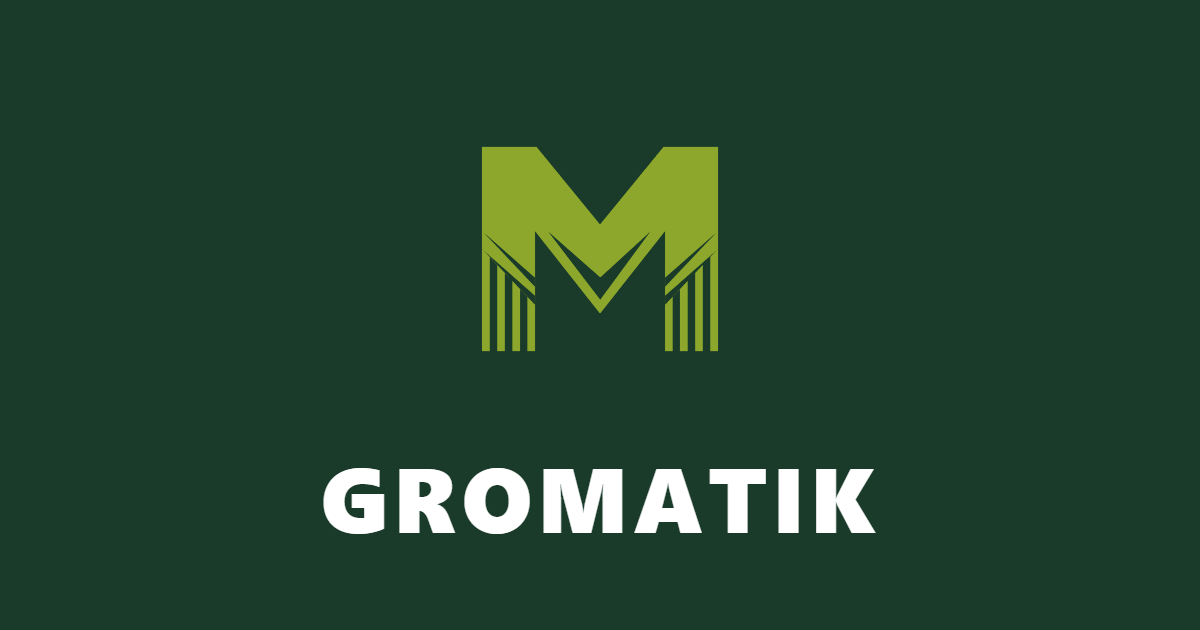
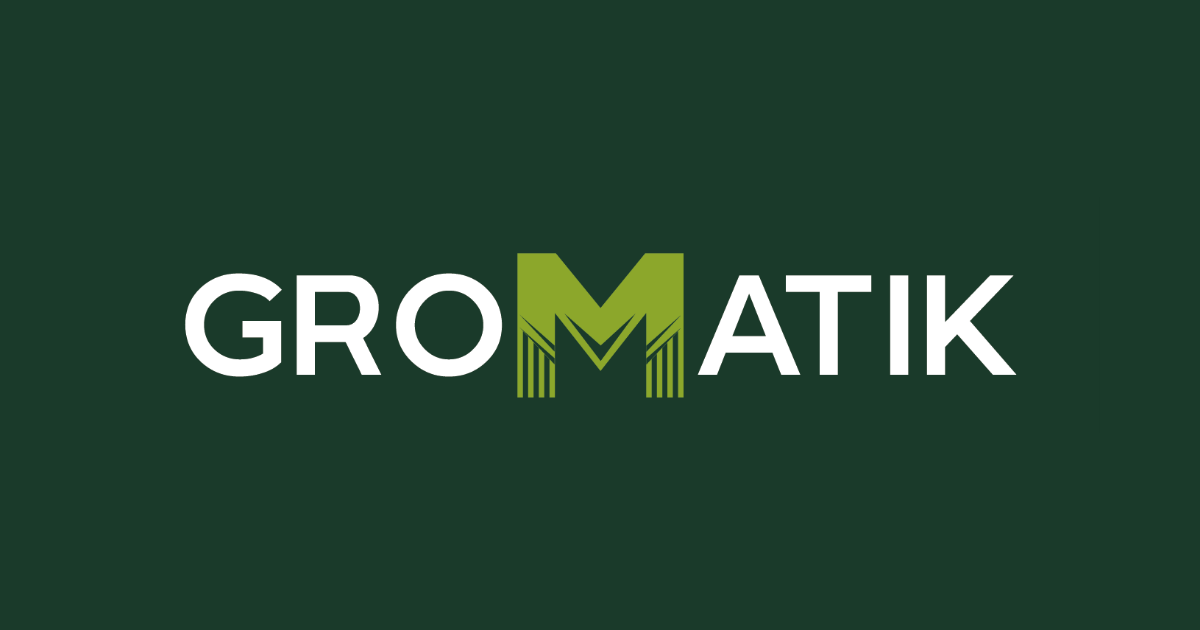
Trim social meta to 'Gromatik' + slogan, use full GROMATIK lockup in og-image

Changed region(s): [[0.1542, 0.2111, 0.8633, 0.6333], [0.2467, 0.7238, 0.74, 0.8444]]

diff --git a/src/app/layout.tsx b/src/app/layout.tsx
@@ -10,9 +10,8 @@ const sora = Sora({
 });
 
 export const metadata: Metadata = {
-  title: "Gromatik | Diagnóstico técnico-económico integral",
-  description:
-    "Gromatik evalúa el desempeño productivo y de manejo de tu establecimiento ganadero, detecta oportunidades y entrega un plan priorizado para mejorar resultados.",
+  title: "Gromatik",
+  description: "Medir el campo, decidir el negocio.",
   keywords: [
     "diagnóstico ganadero",
     "mejora productiva",
@@ -32,9 +31,8 @@ export const metadata: Metadata = {
     canonical: "/",
   },
   openGraph: {
-    title: "Gromatik | Medir el campo, decidir el negocio",
-    description:
-      "Evaluamos tu establecimiento ganadero y entregamos un plan de mejoras priorizado para aumentar rentabilidad.",
+    title: "Gromatik",
+    description: "Medir el campo, decidir el negocio.",
     url: "https://gromatik.ar",
     siteName: "Gromatik",
     locale: "es_AR",
@@ -50,9 +48,8 @@ export const metadata: Metadata = {
   },
   twitter: {
     card: "summary_large_image",
-    title: "Gromatik | Medir el campo, decidir el negocio",
-    description:
-      "Evaluamos tu establecimiento ganadero y entregamos un plan de mejoras priorizado.",
+    title: "Gromatik",
+    description: "Medir el campo, decidir el negocio.",
     images: ["/og-image.png"],
   },
   robots: {